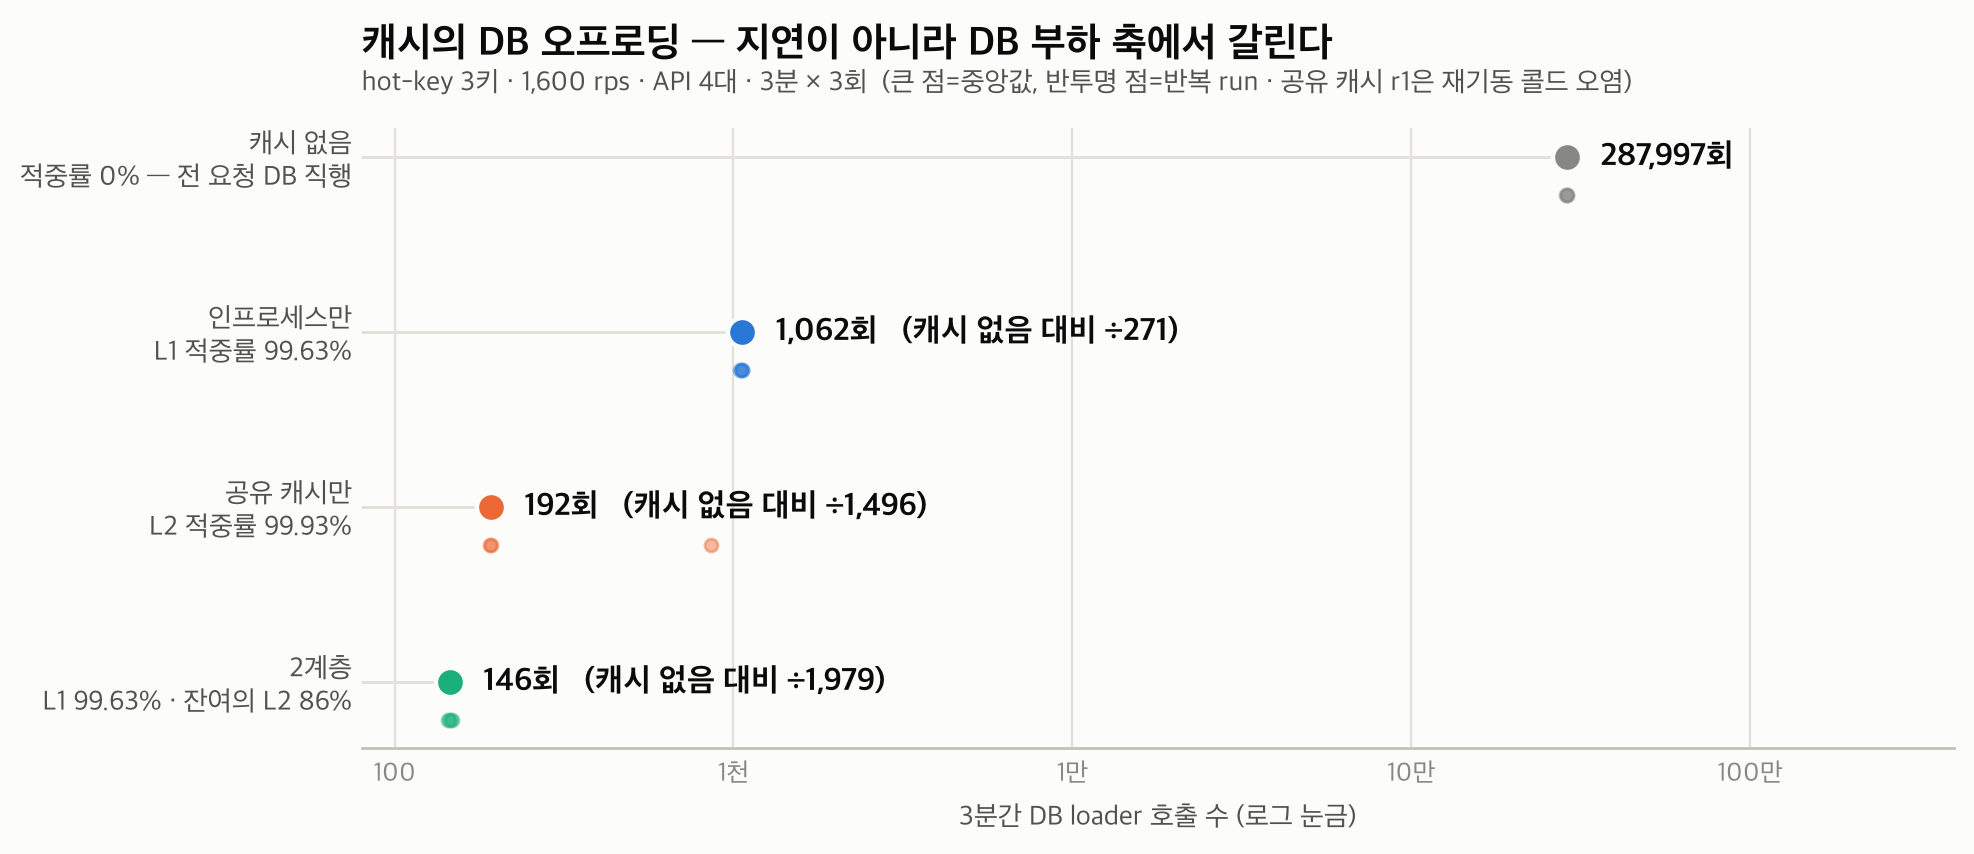
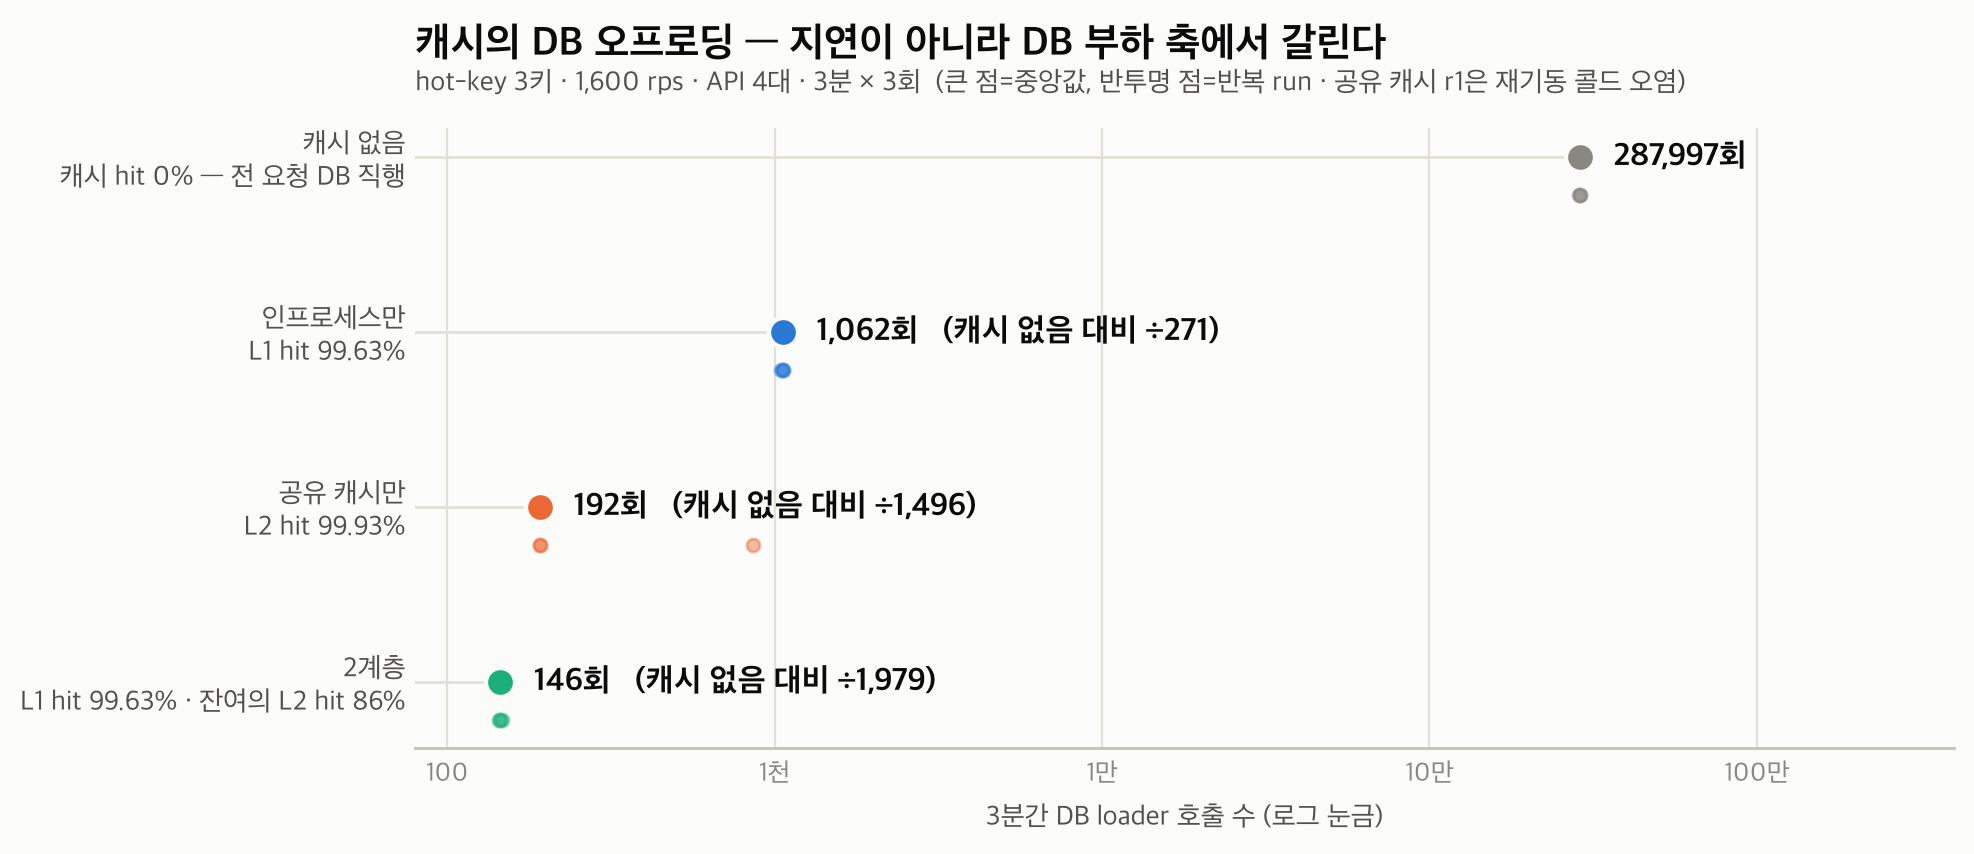
글 수정: 캐시 번외편 문체 정리 — 경구 톤 제거·p99 11.9 통일, 차트 라벨 한글화

diff --git a/_posts/2026-08-17-measuring-the-cache-boundary.md b/_posts/2026-08-17-measuring-the-cache-boundary.md
@@ -1,6 +1,6 @@
 ---
 title: 그래서 캐시는 몇 종까지 버틸까
-description: '"워킹셋 수백 종"이라는 추정으로 남겨둔 재검토 트리거의 좌표를 실측했다. 경계는 메모리가 아니라 키당 TTL 내 도달률에 있었고, 키 수보다 접근 분포가 더 크게 움직였다. 임계점 예측과 실측, L2의 유효 구간과 역효과, 분포 반전, 스파이크까지 정리했다.'
+description: '"워킹셋 수백 종"으로 남겨둔 재검토 조건을 직접 측정했다. L1 적중률은 798~800종에서 무너지기 시작했고, 접근 분포를 바꾸자 경계도 움직였다.'
 date: 2026-08-17 05:40:00 +0900
 categories: [Backend, Architecture]
 tags: [cache, caffeine, redis, load-testing, capacity-planning]
@@ -8,30 +8,22 @@ tags: [cache, caffeine, redis, load-testing, capacity-planning]
 
 [결정 기록](/posts/four-instances-caffeine-was-simpler/)에서 인프로세스 캐시 단독 유지를 확정하고, 뒤집을 조건을 표로 적었다. 그 표의 첫 줄은 이랬다. "워킹셋이 수백 종목으로 확대되면 다시 잰다."
 
-숫자가 아니라 어림이었다. 재검토 조건이 추정이면 재검토 시점 판단도 추정이 된다. 트리거 표는 결정을 자동화하기 위해 쓴 것이므로, 그 안에 "수백"이라는 말이 들어 있는 한 표는 제 역할을 하지 못한다.
+문제는 "수백"의 범위가 너무 넓다는 점이었다. 이대로는 어느 시점에 캐시 구성을 다시 검토해야 할지 알 수 없었다.
 
 그래서 그 선을 재봤다. 이 글은 3부작([개념](/posts/multi-instance-does-not-require-redis/) → [실험](/posts/the-redis-experiment-that-removed-redis/) → [결정](/posts/four-instances-caffeine-was-simpler/))의 번외편이다.
-
-이 글에서 다루는 것은 다섯 가지다.
-
-- 가설 사전 등록. 경계가 메모리가 아니라 도달률이라는 예측과 그 수식이다.
-- 임계점 실측. 예측 800종과 실측 798~800종을 비교한다.
-- 실제 유니버스의 위치. 국내 ETF 1,088종은 임계점 너머에 있다.
-- L2의 유효 구간과 역효과. 공유 캐시도 유한하고, 어느 지점부터는 느려진다.
-- 분포 반전. 경계는 키 수가 아니라 키 수 × 접근 분포의 함수다.
 
 > 측정 환경은 앞선 실험과 동일한 로컬 Docker Compose(API 4대, L1 TTL 2초, L2 TTL 3초, 요청률 1,600 rps)다. 종목 수 100·300·3,000·5,000 은 2분 1회 탐색, 800·1,088 및 분포 실험은 3분 3회 반복 중앙값이다.
 {: .prompt-info }
 
 ---
 
-## 경계는 메모리가 아니라 키당 TTL 내 도달률에 있다
+## TTL 안에 같은 키가 다시 들어와야 한다
 
 측정 전에 가설과 기각 조건을 먼저 적었다. 결과를 보고 나서 설명을 만들지 않기 위해서다.
 
-흔한 예상은 "종목 수가 늘면 캐시 메모리가 부족해진다"다. 이쪽은 계산만으로 기각된다. 5,000종 × 값 1.5KB × 4대 = 약 30MB 이고, `maximumSize` 10,000 안에 들어온다. 이 실험에서 캐시가 무너진다면 eviction 축이 아니다.
+메모리 부족 가능성부터 계산했다. 5,000종 × 값 1.5KB × 4대는 약 30MB이고, `maximumSize` 10,000 안에 들어온다. 이 조건에서는 메모리와 eviction이 경계를 만들지 않는다.
 
-남는 축은 TTL 이다. TTL 이 만료되기 전에 같은 키로 요청이 한 번 더 도착해야 적중이 생기므로, 인스턴스 하나가 키 하나에 대해 TTL 창 안에 받는 요청 수가 관건이다.
+적중이 생기려면 TTL이 끝나기 전에 같은 키가 다시 들어와야 한다. 인스턴스 하나가 키 하나에 대해 TTL 안에 받는 요청 수를 계산했다.
 
 ```text
 키당 TTL 내 도달 횟수 = 요청률 × TTL ÷ (키 수 × 인스턴스 수)
@@ -39,7 +31,7 @@ tags: [cache, caffeine, redis, load-testing, capacity-planning]
 1,600 × 2 ÷ (N × 4) ≥ 1  →  N ≤ 800
 ```
 
-즉 임계점 예측은 N=800종이다. L2 는 TTL 3초이고 클러스터 전체가 공유하므로 인스턴스 수로 나누지 않는다. 같은 계산이 상한 약 4,800종을 준다. 800~4,800 종 구간은 "L1 은 죽고 L2 는 사는 창"이라는 예측이 된다.
+계산한 임계점은 N=800종이다. L2는 TTL 3초이고 클러스터 전체가 공유하므로 인스턴스 수로 나누지 않는다. 같은 식을 적용하면 상한은 약 4,800종이다. 800~4,800종 구간에서는 L1 적중률이 떨어져도 L2는 효과를 낼 것으로 예상했다.
 
 ---
 
@@ -54,7 +46,7 @@ tags: [cache, caffeine, redis, load-testing, capacity-planning]
 | 800 | 50.0% | 144,199 | 37,873 | 3.8배 | 1.8ms |
 | 1,088 | 42.4% | 165,825 | 49,500 | 3.3배 | 2.0ms |
 | 3,000 | 21.0% | 147,037 | 69,951 | 2.1배 | 6.3ms |
-| 5,000 | 13.7% | 160,271 | 93,192 | 1.7배 | 12.0ms |
+| 5,000 | 13.7% | 160,271 | 93,192 | 1.7배 | 11.9ms |
 
 3,000종과 5,000종 행의 로딩 수는 2분 측정값이므로 위쪽 행과 직접 비교하지 않는다.
 
@@ -62,9 +54,9 @@ tags: [cache, caffeine, redis, load-testing, capacity-planning]
 
 L1 적중률이 50%를 하향 돌파하는 지점은 선형 보간으로 798~800종이었고, 두 모드에서 같은 자리였다. 예측 800과 일치한다.
 
-수식이 이만큼 맞은 것은 낮은 종목 수 구간에서 특히 그렇다. N=100 의 예측치 87.5%와 실측 88.8%는 거의 겹친다. 반대로 높은 종목 수에서 붕괴가 예측보다 완만한 이유도 설명된다. 결정적 모델은 도달 횟수가 1 미만이면 적중률 0%를 예측하지만 실제 도착은 포아송이므로, 평균이 1 아래로 내려가도 우연히 TTL 창 안에 두 번 도착하는 키가 남는다. N=5,000 에서 13.7%가 나온 것이 그 꼬리다.
+수식은 낮은 종목 수 구간에서 특히 잘 맞았다. N=100 의 예측치 87.5%와 실측 88.8%는 거의 겹친다. 반대로 높은 종목 수에서 붕괴가 예측보다 완만한 이유도 설명된다. 결정적 모델은 도달 횟수가 1 미만이면 적중률 0%를 예측하지만 실제 도착은 포아송이므로, 평균이 1 아래로 내려가도 우연히 TTL 창 안에 두 번 도착하는 키가 남는다. N=5,000 에서 13.7%가 나온 것이 그 꼬리다.
 
-여기서 얻은 것은 값 하나가 아니라 선을 계산할 수 있는 수식이다. 요청률·TTL·인스턴스 수가 바뀌어도 다시 재지 않고 트리거 값을 갱신할 수 있다.
+이 수식으로 요청률·TTL·인스턴스 수가 바뀔 때마다 재검토 값을 다시 계산할 수 있다.
 
 ---
 
@@ -74,23 +66,23 @@ L1 적중률이 50%를 하향 돌파하는 지점은 선형 보간으로 798~800
 
 균등 접근 조건에서 이 종목 수를 인프로세스 캐시만으로 서빙하면 DB 로딩이 초당 약 920회가 된다. 앞선 실험에서 키 3종일 때 초당 5.9회였던 값과 비교하면 성격이 다른 부하다. 그리고 2계층 구성은 같은 조건에서 이를 3.3배 상환한다.
 
-이것이 트리거 표의 실질적인 의미다. 현재는 정책상 소수 종목만 서빙하지만, "전체 유니버스를 균등하게 서빙한다"는 요구가 들어오는 순간 공유 캐시 도입 근거는 실측으로 확보돼 있다. 결정을 다시 열어야 하는 조건이 무엇인지 알고 있고, 그때 무엇이 얼마나 좋아지는지도 이미 재놨다.
+현재는 정책상 소수 종목만 서빙한다. 전체 유니버스를 균등하게 제공해야 한다면 이 측정값을 근거로 공유 캐시 도입을 다시 검토할 수 있다.
 
 ---
 
-## 공유 캐시도 유한하고, 어느 지점부터는 오히려 느려진다
+## 워킹셋이 커지자 L2도 느려졌다
 
 표의 L2 상환 배수 열을 보면 6.2배에서 1.7배로 단조 감쇠한다. 같은 도달률 논리가 L2 에도 적용되기 때문이다. TTL 3초와 클러스터 합산으로 계산한 상한 약 4,800종에 부합하며, N=5,000 에서 L2 자체 적중률은 41%까지 내려왔다. 공유 캐시는 임계점을 오른쪽으로 밀지만 없애지는 못한다.
 
-더 중요한 것은 p99 열이다. 2계층 구성의 p99 가 N=3,000 에서 6.3ms, N=5,000 에서 12.0ms 로 올라간다. 같은 조건의 인프로세스 단독은 2.4ms 였다.
+2계층 구성의 p99는 N=3,000에서 6.3ms, N=5,000에서 11.9ms로 올라갔다. 같은 조건의 인프로세스 단독은 2.4ms였다.
 
 원인은 단순하다. L2 왕복 비용은 미스마다 발생하므로, 총비용은 왕복 지연 × 미스율이다. 미스율이 낮을 때는 보이지 않다가 미스율이 커지면 응답 시간에 드러난다.
 
-여기서 나오는 한 줄이 이 글에서 가장 실무적인 부분이다. L2 를 넣으면 DB 는 덜 맞지만 응답은 느려질 수 있다. 두 지표가 같은 방향으로 움직인다고 가정하면, DB 로딩 감소만 보고 도입한 뒤 p99 가 나빠지는 결과를 만나게 된다.
+L2는 DB 로딩을 줄이면서도 응답을 느리게 만들 수 있었다. DB 조회 횟수만 보고 도입을 결정하면 이 p99 변화를 놓치게 된다.
 
 ---
 
-## 경계는 키 수가 아니라 접근 분포에 있었다
+## 접근 분포가 경계를 옮겼다
 
 지금까지의 모든 수치는 균등 접근 조건이다. 같은 1,088종에 현실적인 분포(요청의 90%가 인기 종목에 집중)를 넣고 다시 측정했다.
 
@@ -101,24 +93,24 @@ L1 적중률이 50%를 하향 돌파하는 지점은 선형 보간으로 798~800
 
 적중률이 42.4%에서 90.5%로 올라가고 DB 로딩은 6분의 1로 줄어든다. 초당 약 151회다. 임계점이 사실상 나타나지 않는다.
 
-이유는 앞의 수식에 이미 들어 있다. 분모의 `키 수` 는 실제로는 유효 키 수이며, 쏠림 분포에서 유효 키 수는 전체 종목 수보다 훨씬 작다. 즉 경계는 키 수가 아니라 키 수 × 접근 분포의 함수다.
+앞의 수식에서 `키 수`는 실제로 요청이 도달하는 유효 키 수에 가깝다. 쏠림 분포에서는 이 값이 전체 종목 수보다 훨씬 작아진다. 같은 종목 수라도 접근 분포에 따라 경계가 달라지는 이유다.
 
-그래서 균등 접근은 현실의 재현이 아니라 최악 케이스로 읽어야 한다. 트리거 표의 800종은 "이 값을 넘으면 문제가 생긴다"가 아니라 "이 값을 넘으면 최악 케이스에서 문제가 생긴다"는 뜻이다. 이 구분을 표에 적어두지 않으면, 종목 수만 보고 필요 없는 도입을 하게 된다.
+균등 접근은 최악 케이스에 가깝다. 트리거 표의 800종도 이 조건에서 문제가 시작되는 값이다. 실제 접근 분포를 확인하지 않고 종목 수만 보면 Redis 도입 시점을 너무 이르게 잡을 수 있다.
 
 ---
 
-## 조회 폭주는 캐시의 최악이 아니라 최선이다
+## 조회 폭주에서는 캐시 효과가 더 커졌다
 
-경계를 재는 동안 반대쪽도 한 번 확인했다. 이 시스템이 존재하는 이유가 시장 급변 시의 조회 폭주이므로, 그 순간을 견디는지는 별도로 봐야 한다.
+시장 급변으로 조회가 몰리는 상황도 따로 확인했다. 이 시스템이 실제로 버텨야 하는 구간이기 때문이다.
 
 10초 램프로 도착률을 200 rps 에서 4,000 rps 로 올렸다(20~22배, 쏠림 99%). DB 로딩은 초당 3.3회에서 5.8회로 1.7배 늘었고, 온셋 10초 구간에 DB까지 도달한 요청은 42~45건이었다. 오류와 드롭은 0, p99 는 3.0ms 이내였다. 2계층 대조군도 같은 경향(초당 0.7 → 0.9회)이었다.
 
-도착률이 20배가 되는데 DB 로딩은 1.7배만 늘어난다. 폭주는 곧 특정 종목으로의 쏠림이고, 쏠림이 심해질수록 요청은 single-flight 뒤로 수렴하기 때문이다. 캐시가 가장 잘 듣는 국면이 하필 트래픽이 가장 위험한 국면이다.
+도착률은 20배가 됐지만 DB 로딩은 1.7배만 늘었다. 조회가 특정 종목에 몰릴수록 요청이 single-flight 뒤로 합쳐졌기 때문이다. 시장 급변 구간에서 캐시 효과가 더 커졌다.
 
 ---
 
 ## 회고
 
-트리거 표의 첫 줄은 이제 "균등 접근 기준 약 800종, 분포 쏠림으로 완화됨"으로 갱신됐다. 재검토 트리거에 "수백 종"처럼 어림이 들어 있으면 그 표는 결정을 자동화하지 못한다. 트리거 표를 쓰는 작업의 절반은 그 안의 숫자를 재는 일이었다.
+트리거 표의 첫 줄을 "균등 접근 기준 약 800종, 분포 쏠림으로 완화됨"으로 고쳤다. 이제 종목 수와 접근 분포를 보고 재측정 시점을 정할 수 있다.
 
-한계는 분명하다. 접근 분포는 균등과 90-10 두 점만 재서 그 사이 곡선을 모르고, 종목 키는 합성이며, 측정은 여전히 부하 발생기와 서버가 같은 머신인 로컬 환경이다. 따라서 "분포가 바뀌면 선도 움직인다"는 방향은 신뢰하지만, 특정 분포에서의 정확한 좌표는 그 분포를 다시 재야 나온다. 수식이 남았으니 다시 재는 비용은 처음보다 작다.
+접근 분포는 균등과 90-10 두 점만 측정했고, 종목 키는 합성이며, 부하 발생기와 서버도 같은 로컬 머신에서 돌았다. 특정 분포의 정확한 임계점은 그 조건으로 다시 측정해야 한다. 다만 수식을 남겨 뒀기 때문에 다음 실험의 범위는 더 빨리 좁힐 수 있다.
